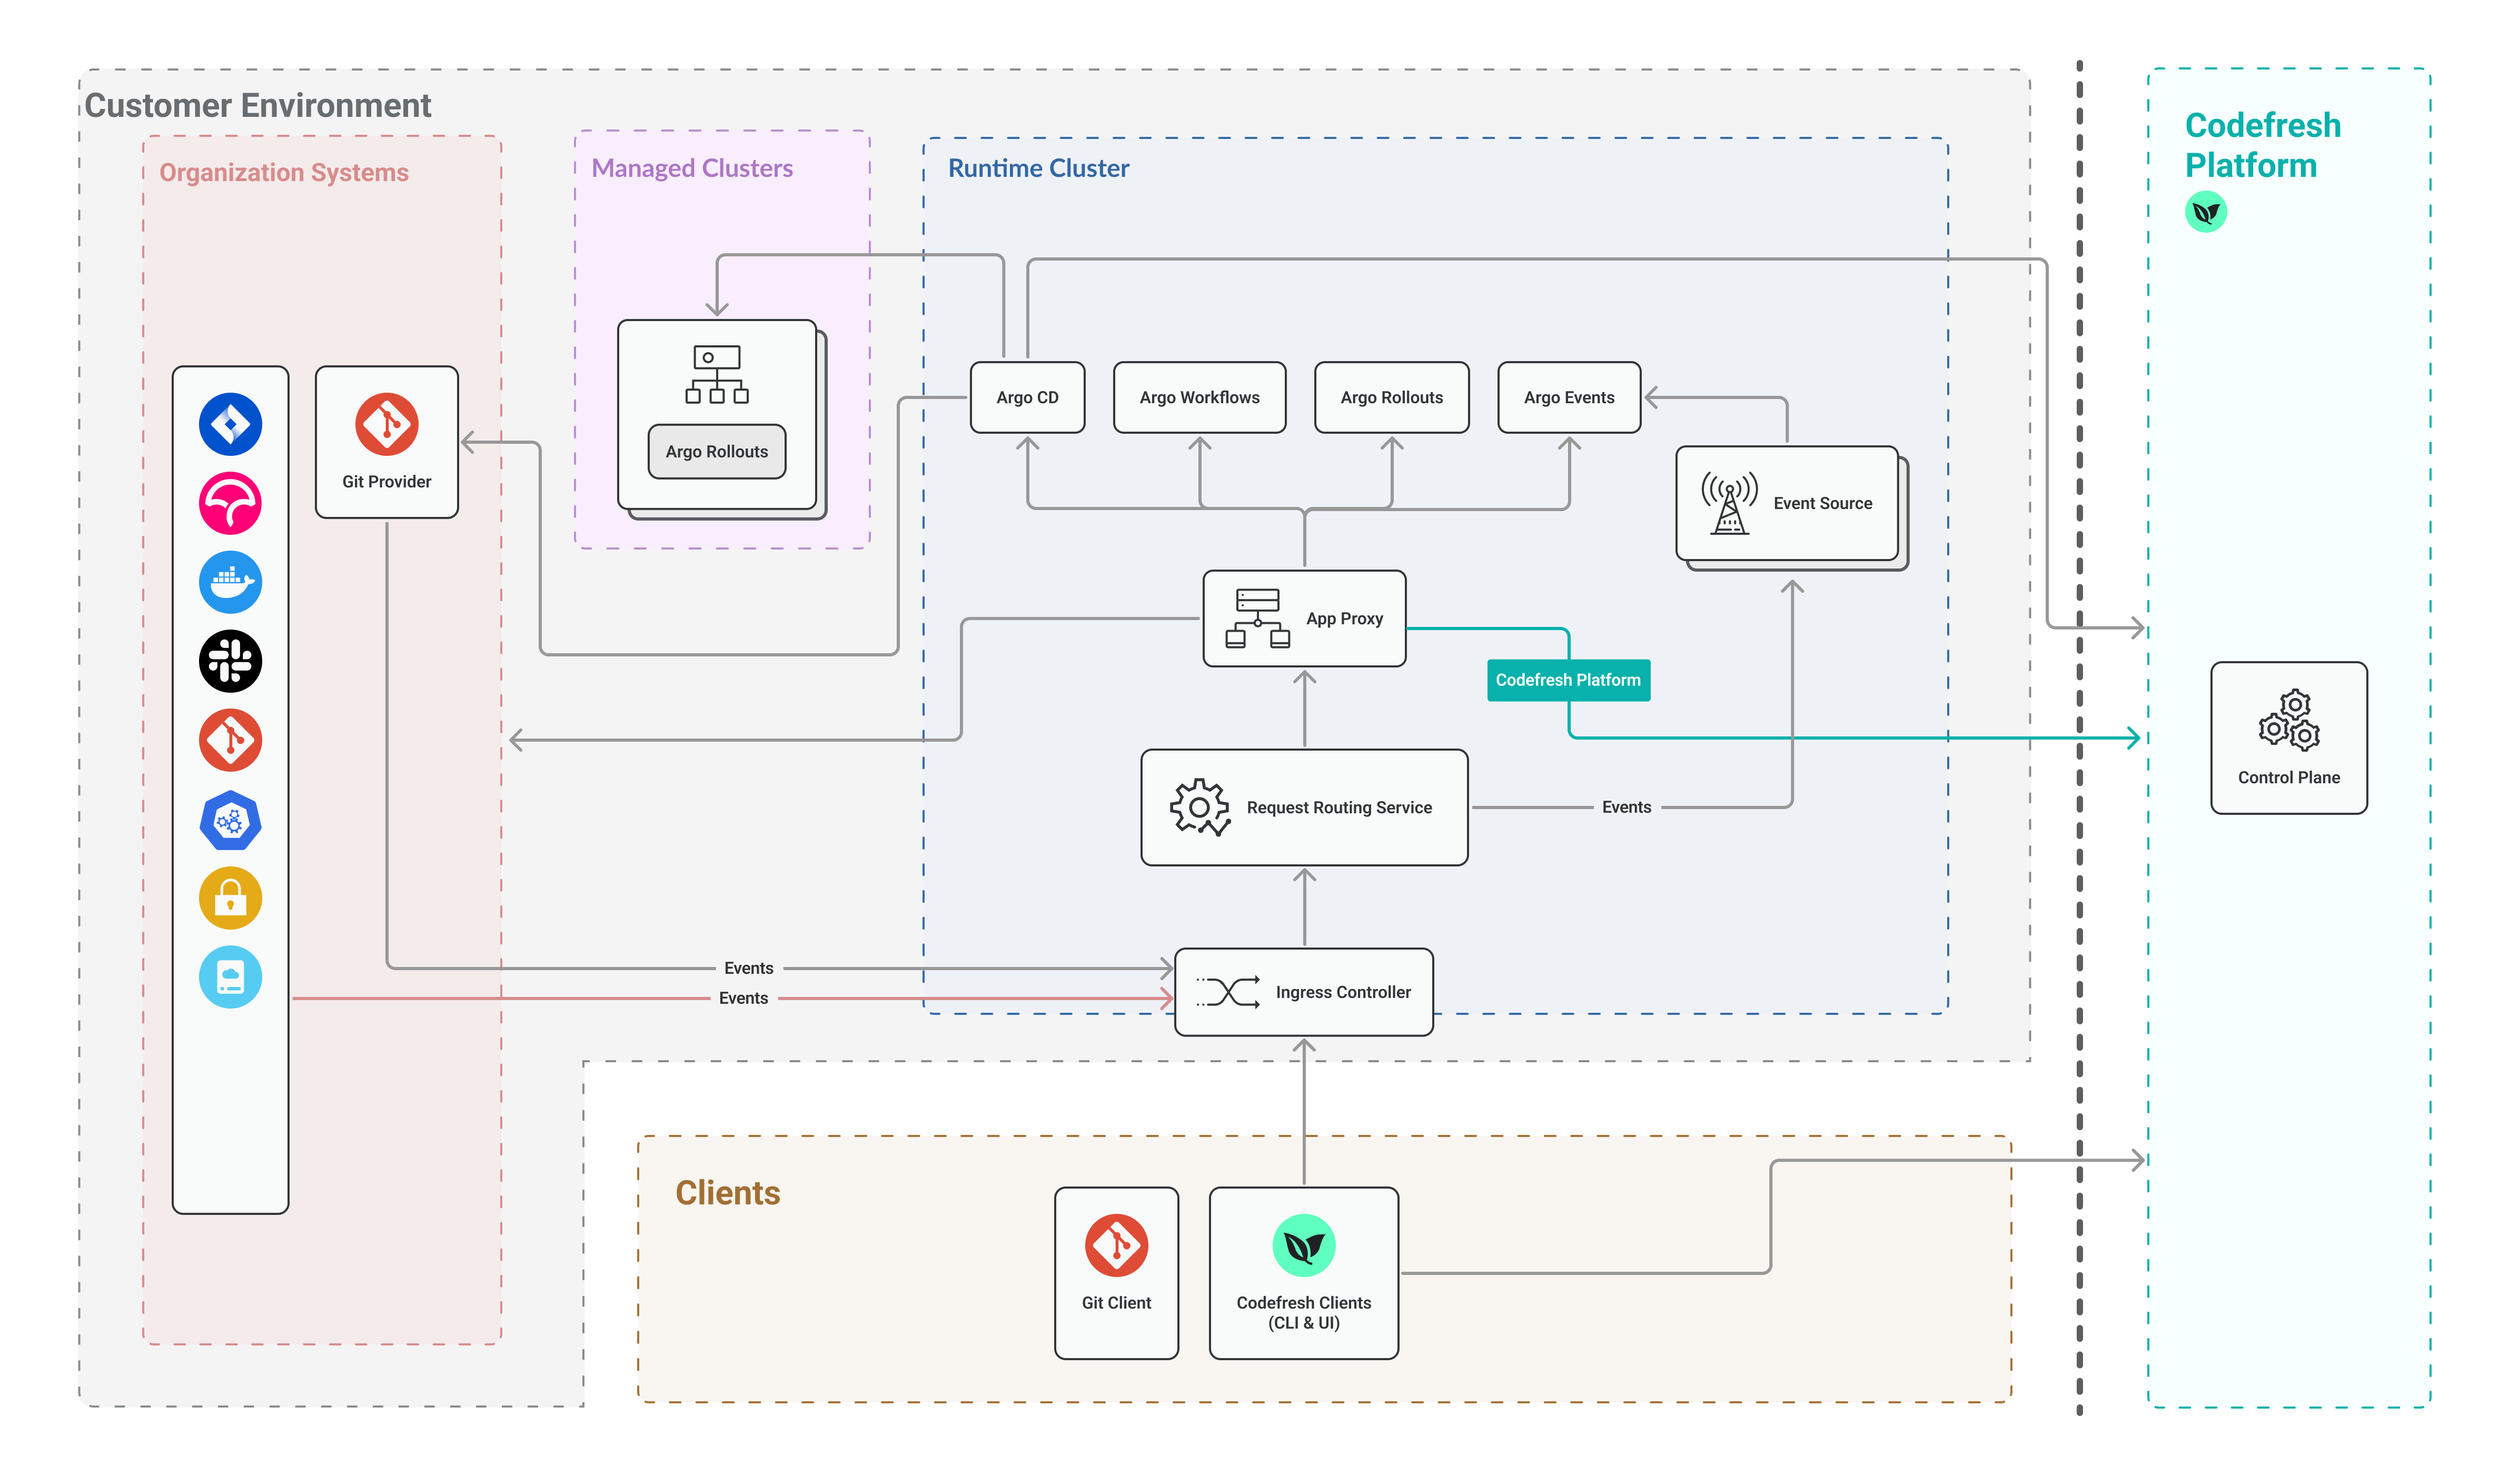
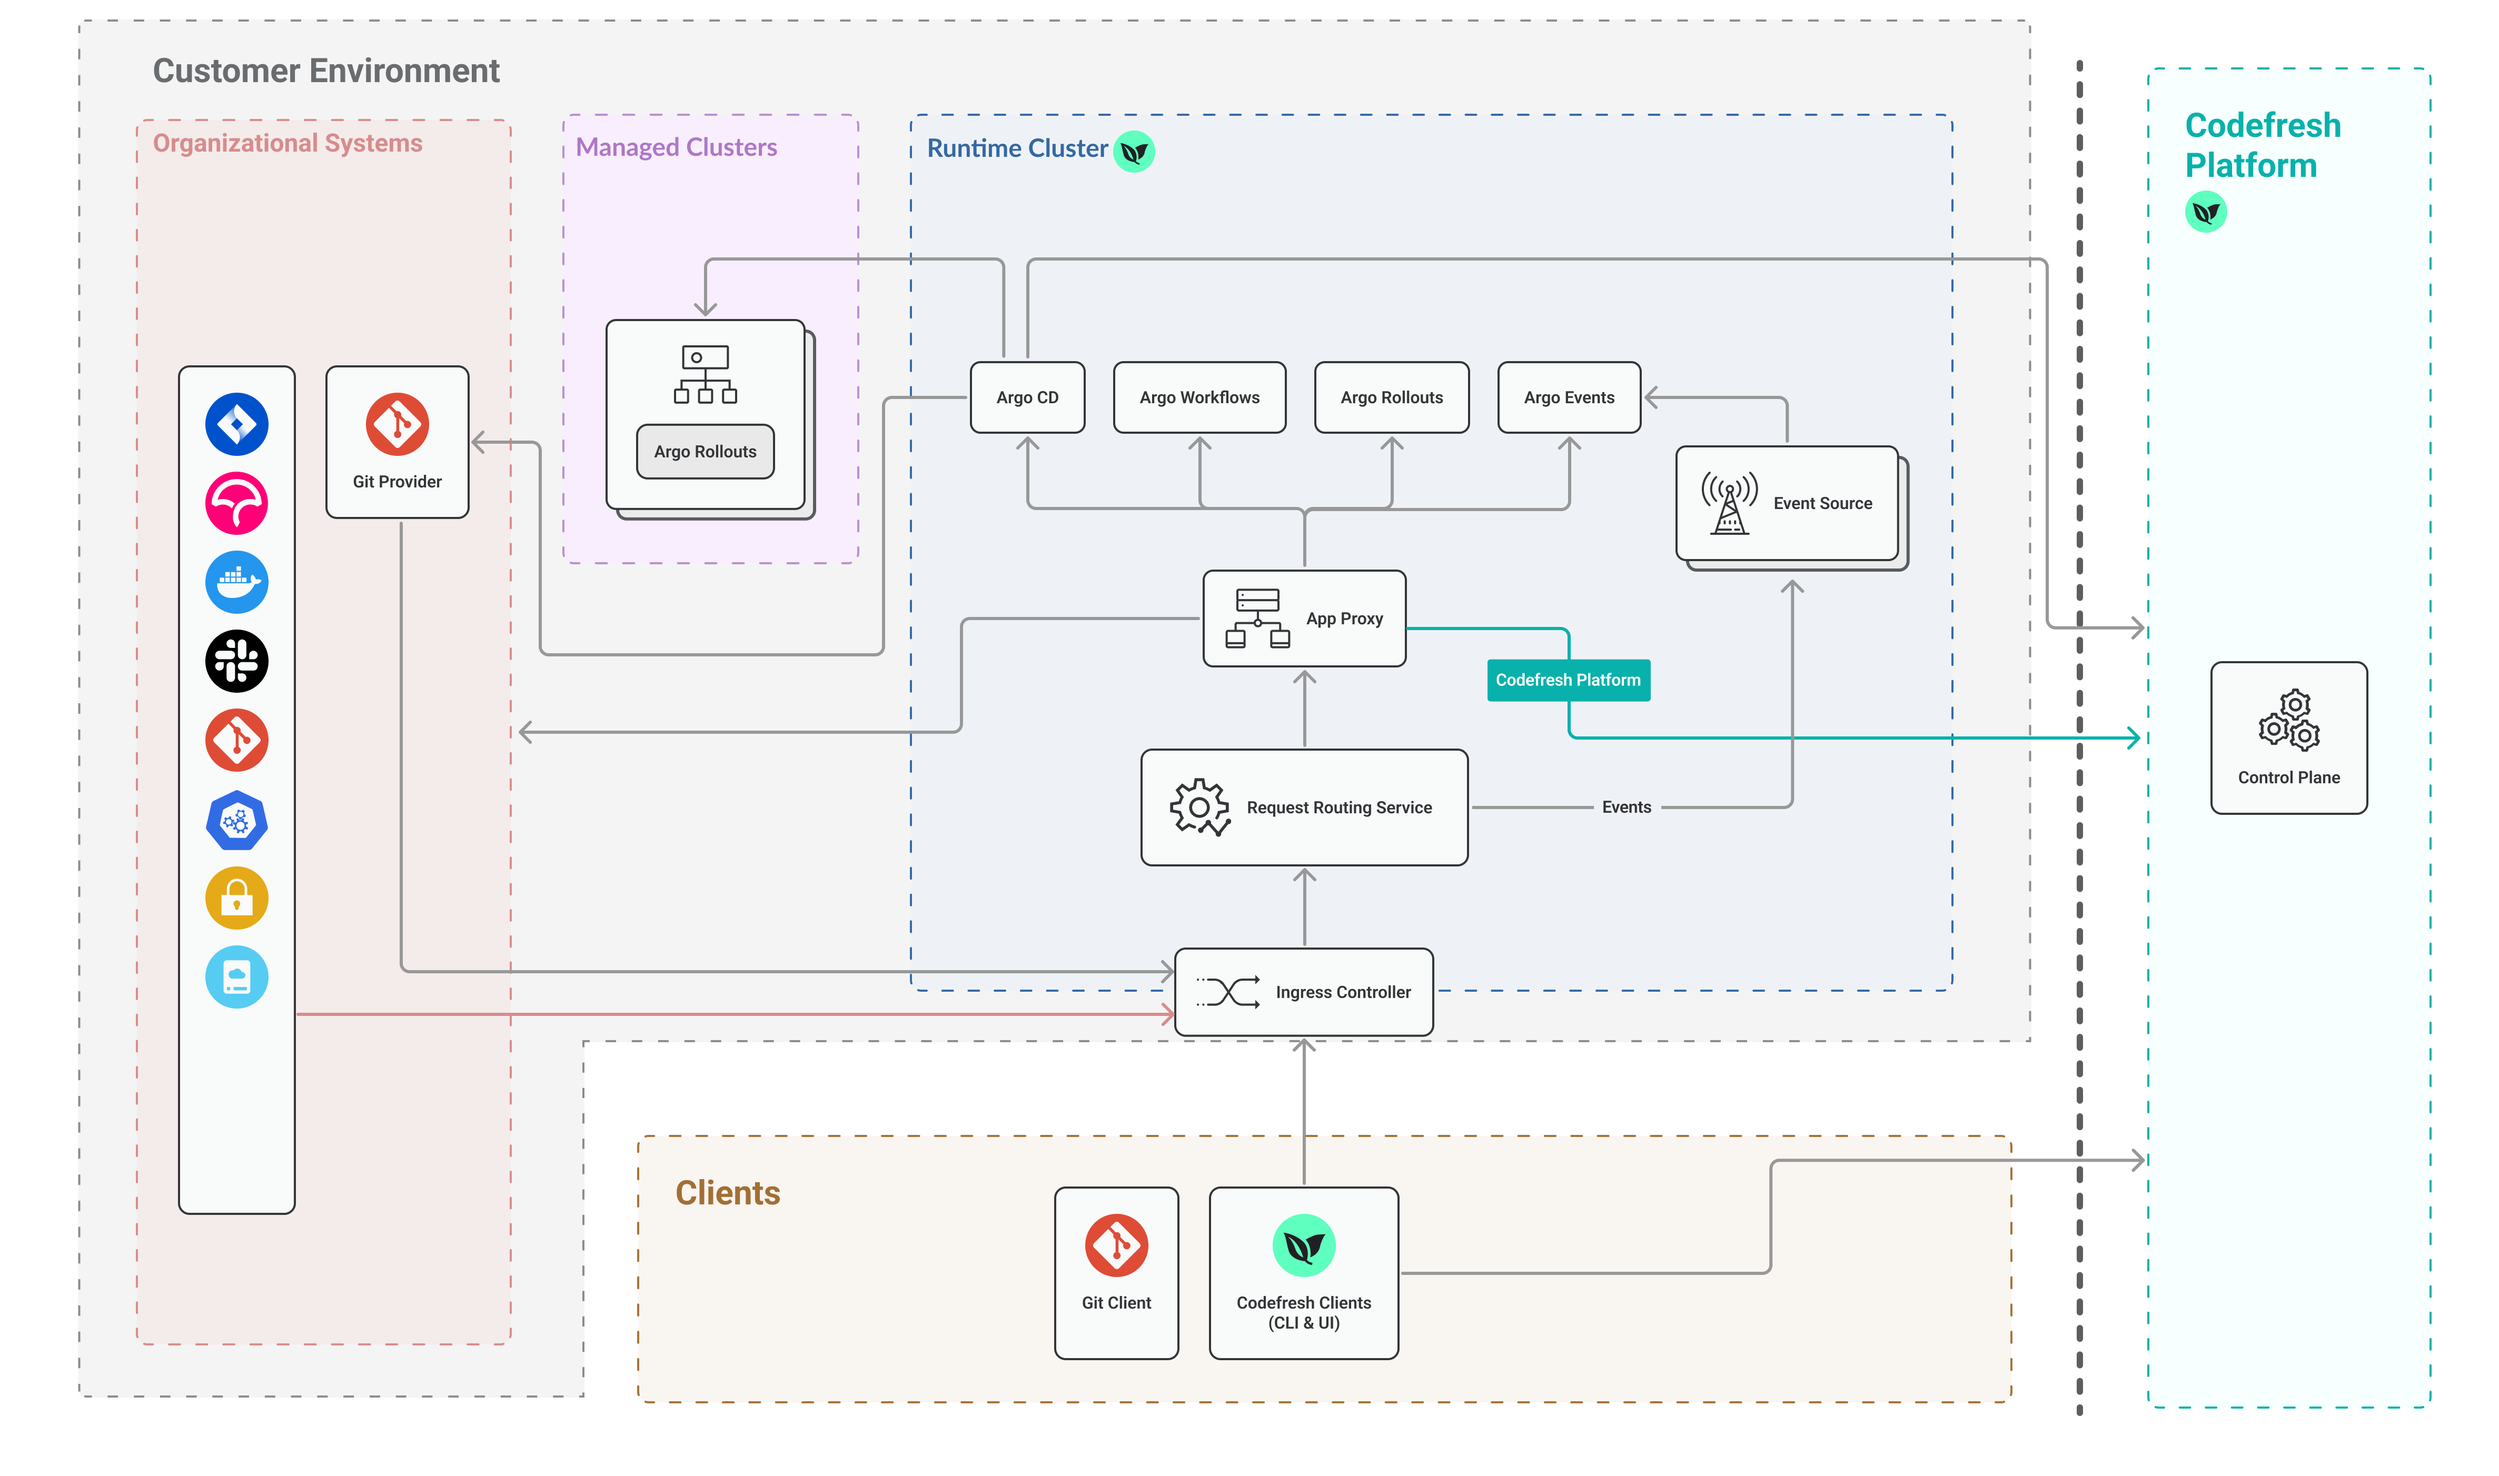
Updates to architecture
Updated diagrams and restructured content

diff --git a/_docs/getting-started/architecture.md b/_docs/getting-started/architecture.md
@@ -6,15 +6,9 @@ toc: true
 ---
 
 Codefresh GitOps is built around an enterprise version of the Argo Ecosystem, fully compliant with the GitOps paradigm, with industry-standard security.
-To cater to differing requirements and degrees of enterprise security, Codefresh supports hosted and hybrid installation environments. 
+To cater to differing requirements and degrees of enterprise security, Codefresh supports hosted and hybrid installation environments for Codefresh runtimes. 
 
-Hosted environments: SaaS 
-
-Hybrid environments:
-
-
-
-The sections that follow illustrate the architectures of the different installation environments, starting with a high-level overview of the Codefresh Platform.
+The sections that follow illustrate the architecture of the different installation environments, starting with a high-level overview of the Codefresh Platform.
 
 ### Codefresh architecture
 
@@ -35,13 +29,8 @@ The diagram shows a high-level view of the Codefresh Platform and its core compo
 {:/}
 
 #### Codefresh Control Plane
-The Codefresh Control Plane is the SaaS component in the platform. External to the enterprise firewall, it does not have direct communication with the Codefresh Runtime, Codefresh Clients, or the customer's organizational systems. The Codefresh Application Proxy and the Codefresh Clients communicate with the Codefresh Control Plane to retrieve the required information.  
+The Codefresh Control Plane is the SaaS component in the platform. External to the enterprise firewall, it does not have direct communication with the Codefresh Runtime, Codefresh Clients, or the customer's organizational systems. The Codefresh Runtime and the Codefresh Clients communicate with the Codefresh Control Plane to retrieve the required information.  
 
-The Codefresh Control Plane:  
-
-* Securely stores user accounts   
-* Enforces the permissions model 
-* Controls authentication, user management, and billing
 
 {::nomarkdown}
 <br>
@@ -49,17 +38,8 @@ The Codefresh Control Plane:
 
 #### Codefresh Runtime
 The Codefresh Runtime is installed on a Kubernetes cluster, and houses the enterprise distribution of the Codefresh Application Proxy and the Argo Project.  
-Depending on the type of installation environment, the Codefresh Runtime is installed either in the Codefresh platform or in the customer environment:
-* Hosted environments: Installed on a _Codefresh-managed cluster_ in the Codefresh platform.
-* Hybrid environments: Installed on a _customer-managed cluster_ in the customer environment.
-  In hybrid environments, you can install the Codefresh runtimes with or without an ingress controller.  
-  * Ingress-less runtimes: Optimal when the target cluster is not exposed to the internet. Uses FRP (Fast Reverse Proxy) tunneling for communication between the Codefresh Runtime in the customer cluster and the Codefresh Platform.
-  * Ingress-based runtimes: Optimal when the target cluster is exposed to the internet. Uses an ingress controller for communication between the Codefresh Runtime in the customer cluster and the Codefresh Platform.
- 
-The Codefresh Runtime: 
-* Integrates with Argo Workflows and Argo Events to run Delivery Pipelines (hybrid environments), and with Argo CD and Argo Rollouts (both hosted and hybrid environments) to implement GitOps-compatible continuous deployment and progressive delivery.
-* Ensures that the installation repository and the Git Sources are always in sync, and applies Git changes back to the target cluster.
-* Receives events and information from the customer's organizational systems to execute workflows.
+Depending on the type of installation environment, the Codefresh Runtime is installed either in the Codefresh platform (hybrid), or in the customer environment (hosted). Read more in [Codefresh runtime architecture](#codefresh-runtime-architecture).
+
 
 {::nomarkdown}
 <br>
@@ -67,38 +47,31 @@ The Codefresh Runtime:
 
 #### Codefresh Clients
 
-Codefresh Clients include the Codefresh UI and the Codefresh CLI.  
-
-
-* Codefresh UI  
-  The Codefresh UI provides a unified, enterprise-wide view of deployments (runtimes and clusters), and CI/CD operations (Delivery Pipelines, workflows, and deployments) in the same location.  
-
-  * Multi-runtime and multi-cluster management: View all provisioned runtimes, and the clusters they manage in the Runtimes page.   
-  * Dashboards for CI and CD visualizations: The Home dashboard for critical insights into CI and CD lifecycles, the DORA metrics dashboard for DevOps metrics, the Applications dashboard for GitOps details, and the Delivery Pipelines dashboard for workflow details.
-  * Wizards to simplify installation, Delivery Pipeline and application creation and management.
-  * Integrations for software delivery workflows  
-
-
-* Codefresh CLI  
-  The Codefresh CLI includes commands to install hybrid runtimes, add external clusters, and manage runtimes and clusters.
+Codefresh Clients include the Codefresh UI and the Codefresh CLI.   
+The Codefresh UI provides a unified, enterprise-wide view of deployments (runtimes and clusters), and CI/CD operations (Delivery Pipelines, workflows, and deployments) in the same location.  
+The Codefresh CLI includes commands to install hybrid runtimes, add external clusters, and manage runtimes and clusters.
 
 ### Codefresh runtime architecture
-The sections that follow show detailed views of runtime architecture for the different installation environments, and the Codefresh Runtime components.
+The sections that follow show detailed views of runtime architecture in the different installation environments, and descriptions of the Codefresh Runtime components.
 
 * [Hosted GitOps runtime architecture](#hosted-gitops-runtime-architecture)
+  In this installation environment, the Codefresh Runtime is installed on a _Codefresh-managed cluster_ in the Codefresh platform.  
 * Hybrid runtime architecture:
-  * [Ingress-based](#ingress-based-hybrid-runtime-architecture)
-  * [Ingress-less](#ingress-less-hybrid-runtime-architecture)
+  In this installation environment, the Codefresh Runtime is installed on a _customer-managed cluster_ in the customer environment. The Codefresh Runtime can communicate with the can be ingress-based  
+  * [Ingress-based](#ingress-based-hybrid-runtime-architecture)  
+  * [Ingress-less](#ingress-less-hybrid-runtime-architecture)  
+
+
 * Runtime components
   * [Codefresh Application Proxy](#codefresh-application-proxy)
   * [Argo Project](#argo-project)
   * [Request Routing Service](#request-routing-service)
-  * [Codefresh Tunnel Server](#codefresh-tunnel-server)
-  * [Codefresh Tunnel Client](#codefresh-tunnel-client)
+  * [Tunnel Server](#codefresh-tunnel-server)
+  * [Tunnel Client](#codefresh-tunnel-client)
 
 
 #### Hosted GitOps runtime architecture
-In the hosted environment, the Codefresh Runtime is located on a K8s cluster managed by Codefresh. 
+In the hosted environment, the Codefresh Runtime is installed on a K8s cluster managed by Codefresh. 
 
 {% include
    image.html
@@ -111,7 +84,7 @@ In the hosted environment, the Codefresh Runtime is located on a K8s cluster man
 %}
 
 #### Ingress-based hybrid runtime architecture
-For ingress-based runtimes in hybrid installation environments, the Codefresh Runtime is located on the customer's K8s cluster, and managed by the customer. An Ingress Controller controls communication between the client cluster and other systems.
+Ingress-based runtimes use an ingress controller to control communication between the Codefresh Runtime in the customer cluster and the Codefresh Platform. Ingress controllers are optimal when the cluster with the Codefresh Runtime is exposed to the internet.  
 
 
 
@@ -126,8 +99,7 @@ For ingress-based runtimes in hybrid installation environments, the Codefresh Ru
 %}
 
 #### Ingress-less hybrid runtime architecture
-
-> Hybrid runtimes can be installed with an ingress controller. See 
+Ingress-less runtimes uses tunneling to control communication between the Codefresh Runtime in the customer cluster and the Codefresh Platform. Ingress-less runtimes are optimal when the cluster with the Codefresh Runtime is not exposed to the internet. 
 
 {% include
    image.html
@@ -176,7 +148,7 @@ The Request Routing Service is installed on the same cluster as the Codefresh Ru
 The Request Routing Service is available from runtime version 0.0.543 and higher.
 Older runtime versions are not affected as there is complete backward compatibility, and the Ingress Controller continues to route incoming requests.
 
-#### Codefresh Tunnel Server
+#### Tunnel Server
 Applies only to _ingress-less_ runtimes in hybrid installation environments.  
 The Codefresh Tunnel Server is installed in the Codefresh platform. It communicates with the enterprise cluster located behind a NAT or firewall.  
 
@@ -189,7 +161,7 @@ The Tunnel Server:
 <br>
 {:/}
 
-#### Codefresh Tunnel Client
+#### Tunnel Client
 Applies only to _ingress-less_ runtimes in hybrid installation environments.  
 
 The Codefresh Tunnel Client functions as the Codefresh agent. Installed in the Codefresh Runtime, it establishes the tunneling connection to the Codefresh Tunnel Server via the WebSocket Secure (WSS) protocol.   
@@ -205,22 +177,23 @@ The Codefresh Tunnel Client:
 
 
 ### Customer environment
-The customer environment that communicates with the Codefresh platform, generally includes:
+The customer environment that communicates with the Codefresh Runtime and the Codefresh Platform, generally includes:
 * Ingress controller for ingress-based hybrid runtimes  
   The ingress controller is configured on the same Kubernetes cluster as the Codefresh Runtime, and implements the ingress traffic rules for the Codefresh Runtime. 
   See [Ingress controller requirements]({{site.baseurl}}/docs/runtime/requirements/#ingress-controller).
 * Managed clusters  
   Managed clusters are external clusters registered to provisioned hosted or hybrid runtimes for application deployment.  
   Hosted runtimes requires you to connect at least one external K8s cluster as part of setting up the Hosted GitOps environment.  
-  For hybrid runtimes, you can add external clusters after provisioning them. 
+  Hybrid runtimes allow you to add external clusters after provisioning the runtimes.  
+  See [Add external clusters to runtimes]({{site.baseurl}}/docs/runtime/managed-cluster/).
 * Organizational systems  
   Organizational Systems include the customer's tracking, monitoring, notification, container registries, Git providers, and other systems. They can be entirely on-premises or in the public cloud.   
-  Either the Ingress Controller (ingress-based hybrid environments), or the Codefresh Tunnel Client (ingress-less hybrid environments), forwards incoming events to the Codefresh Application Proxy. 
+  Either the Ingress Controller (ingress-based hybrid environments), or the Tunnel Client (ingress-less hybrid environments), forwards incoming events to the Codefresh Application Proxy. 
 
 ### Related articles
 [Set up a hosted runtime environment]({{site.baseurl}}/docs/runtime/hosted-runtime/)  
 [Install a hybrid runtime]({{site.baseurl}}/docs/runtime/installation/)
-[Add external clusters to runtimes]({{site.baseurl}}/docs/runtime/managed-cluster/)
+
 
 
 
